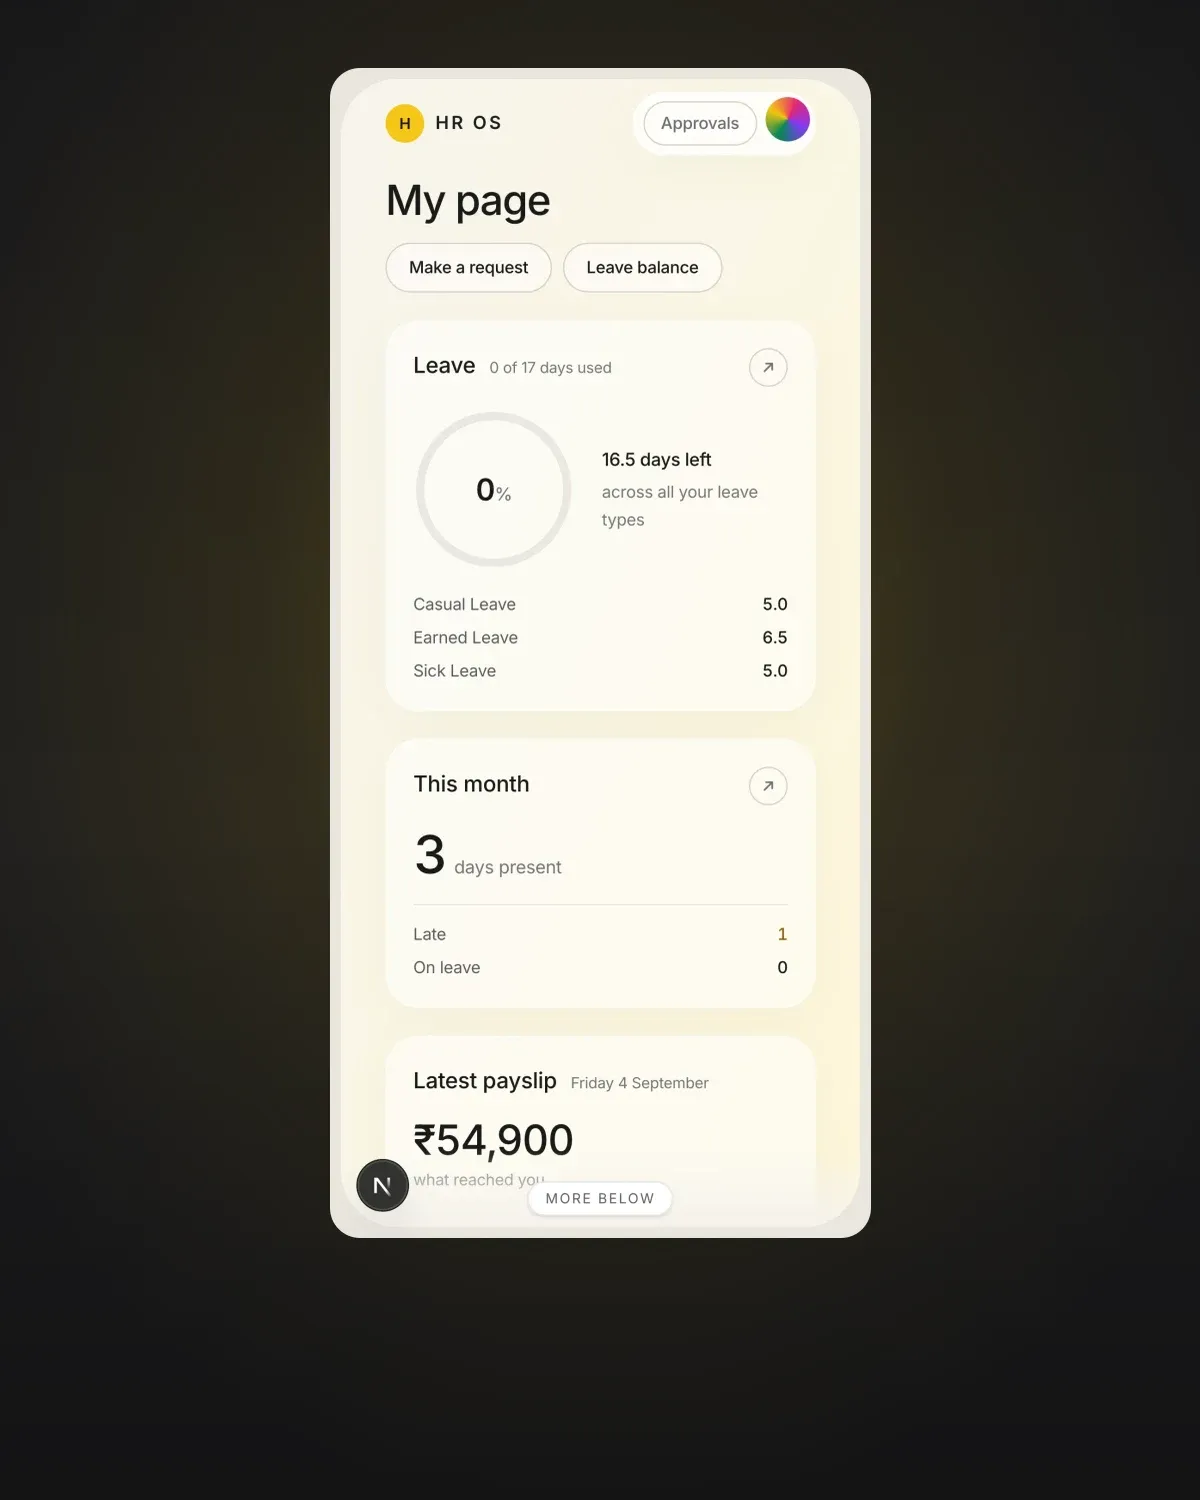
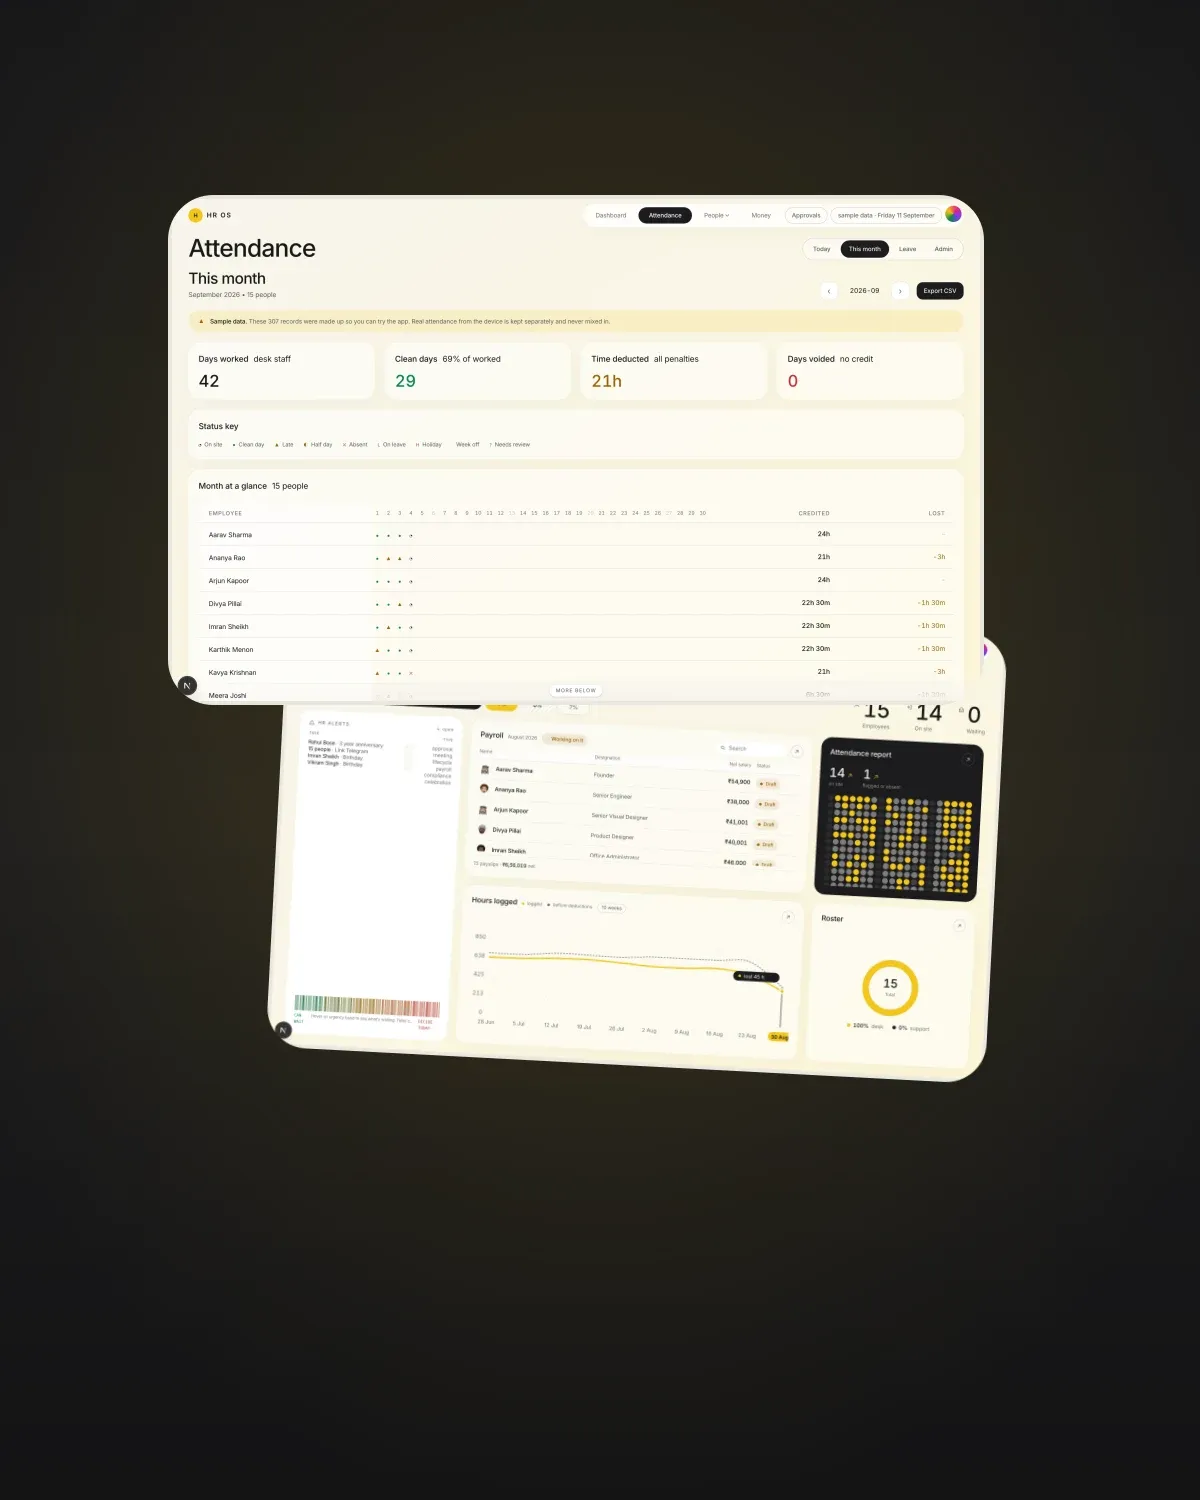
fix: portrait thumbnails for Raj Associates and HR OS show the desktop work
Both portrait masters were built from a single phone screenshot. /work serves
thumb-portrait below 768px and the homepage strip uses it at every width, so on
a phone these two advertised themselves as mobile apps. Raj Associates is a
desktop site and HR OS is an admin console; the employee phone page is the
smallest part of it and the least distinguishable from any other HR app.

The original reasoning is in the recipe comments and was about the products'
own users, most of whom really are on phones. That is a fact about the product,
not about what a portfolio card is for.

The objection that picked the phone first still stands on its own: one 16:10
screen scaled to the width of a 4:5 canvas leaves it mostly empty. So these
stack two desktop screens at 0.30 and 0.34, which is how the Evolusis and
Mission Control portrait masters already solve the same problem. Sat beside
those two, the new cards read as the same system.

Kharchaaaa is untouched. It is mobile-first, so a phone is the right subject.

Image URLs are unchanged, including the hr-os source stamp, so no database rows
move. thumb-wide was regenerated by the same run but its recipe did not change:
it differs from the shipped file by 0.16 and 0.07 per pixel out of 255, which
is WebP re-encoding and nothing else.

Claude-Session: https://claude.ai/code/session_01ADWWQfgQekFxFghcuziH3E

diff --git a/scripts/seed-hr-os.ts b/scripts/seed-hr-os.ts
@@ -177,9 +177,18 @@ const CLEAN = '#f5c518'     // --color-accent, the gold the redesign signals wit
  * system" fastest, with the dashboard and roster tilted behind it so the card
  * reads as a product rather than one cropped screenshot.
  *
- * Portrait: the phone alone. The strip card is narrow, a 16:10 desktop screen
- * scaled to fit its width leaves the canvas mostly empty, and most of the staff
- * on this system only ever see it on a phone.
+ * Portrait: two desktop screens stacked, not the phone.
+ *
+ * Most staff on this system only ever see the phone view, which is why the
+ * phone was picked first. But that is a fact about the product's users, not
+ * about what this card is for. The card sells the work to someone deciding
+ * whether to read the case study, and the work is an admin console: payroll
+ * runs, a register, a roster. The employee's phone page is the smallest part
+ * of it and the least distinguishable from any other HR app.
+ *
+ * The 4:5 canvas still cannot carry one 16:10 screen without going empty, so
+ * this stacks two at 0.30 and 0.34, the same geometry the Evolusis and Mission
+ * Control portrait masters use.
  */
 const recipeFor = (v: string): Recipe => ({
   slug: 'hr-os',
@@ -191,7 +200,8 @@ const recipeFor = (v: string): Recipe => ({
     { file: `projects/hr-os/02-register.${v}.webp`, scale: 0.62, dx: 0, dy: 0.02 },
   ],
   portrait: [
-    { file: `projects/hr-os/07-mobile-me.${v}.webp`, scale: 0.78, dx: 0, dy: 0.035 },
+    { file: `projects/hr-os/01-dashboard.${v}.webp`, scale: 0.30, dx: 0.03, dy: 0.16, rotate: 3 },
+    { file: `projects/hr-os/02-register.${v}.webp`, scale: 0.34, dx: -0.02, dy: -0.10 },
   ],
 })
 

diff --git a/scripts/seed-raj-associates.ts b/scripts/seed-raj-associates.ts
@@ -155,9 +155,18 @@ const BRASS = '#A8894F'
  * Wide: the practice index in front, because the cause list is the argument,
  * with the landing page and a practice page tilted behind it.
  *
- * Portrait: the phone. Most of this site's readers will never see the desktop
- * layout, and the strip card is narrow enough that a 16:10 screen scaled to
- * fit it leaves the canvas mostly empty.
+ * Portrait: two desktop screens stacked, not the phone.
+ *
+ * The phone was the first choice on the grounds that most of this firm's own
+ * visitors arrive on one. That is true of the site and beside the point for the
+ * card: this card advertises the work, and the work is a desktop site. A phone
+ * screenshot here tells a portfolio visitor the deliverable was a mobile app.
+ *
+ * The objection that beat the desktop screen the first time was real, though.
+ * One 16:10 screen scaled to the width of a 4:5 canvas does leave it mostly
+ * empty. Stacking two at 0.30 and 0.34 is how the Evolusis and Mission Control
+ * portrait masters already solve it, so the geometry is borrowed from there
+ * rather than invented.
  */
 const RECIPE: Recipe = {
   slug: 'raj-associates',
@@ -169,7 +178,8 @@ const RECIPE: Recipe = {
     { file: 'projects/raj-associates/02-practice-index.webp', scale: 0.62, dx: 0, dy: 0.02 },
   ],
   portrait: [
-    { file: 'projects/raj-associates/07-mobile.webp', scale: 0.78, dx: 0, dy: 0.035 },
+    { file: 'projects/raj-associates/01-hero.webp', scale: 0.30, dx: 0.03, dy: 0.16, rotate: 3 },
+    { file: 'projects/raj-associates/02-practice-index.webp', scale: 0.34, dx: -0.02, dy: -0.10 },
   ],
 }
 
